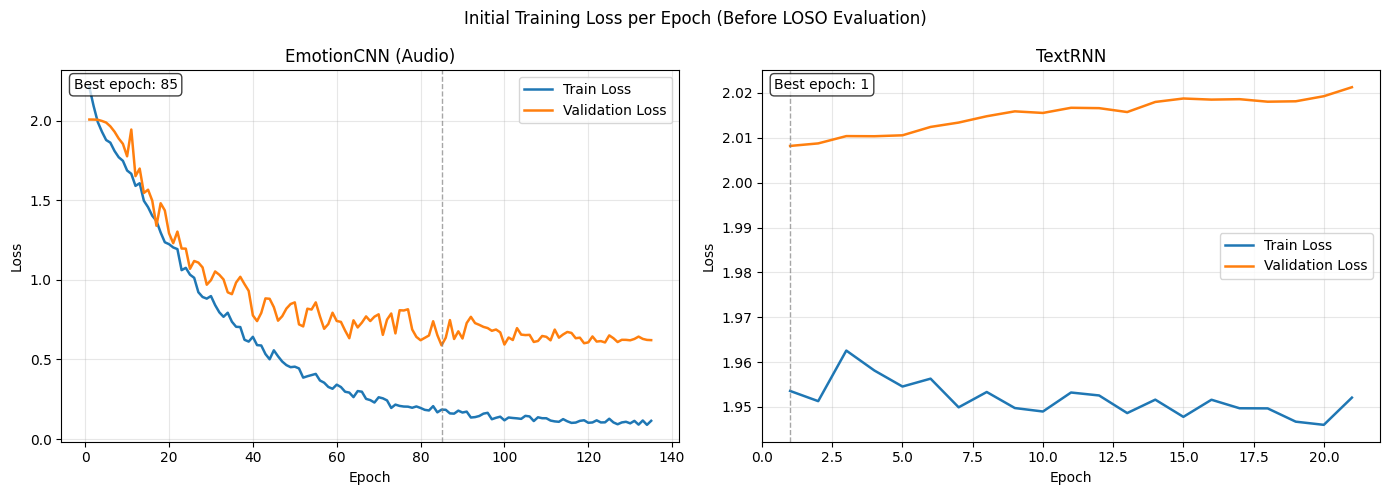
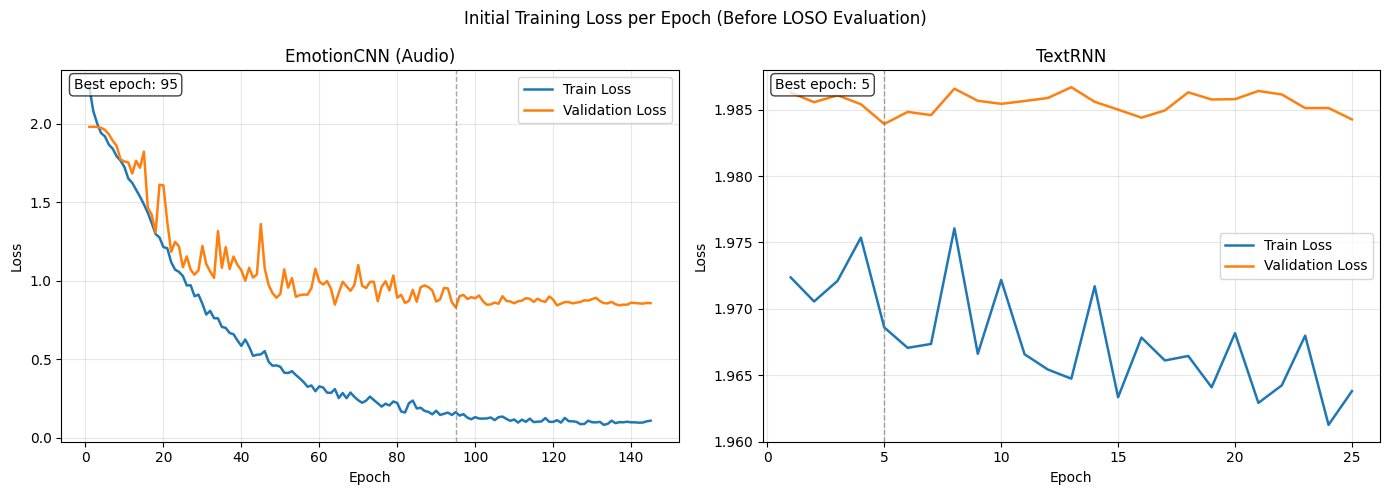
actual final submission?

diff --git a/Emotion Recognition/Technical_Report.md b/Emotion Recognition/Technical_Report.md
@@ -122,7 +122,7 @@ The text branch tests whether lexical information helps. A GRU is simple, sequen
 
 ### Why late fusion?
 
-The notebook’s own observation is correct: RAVDESS uses only two fixed spoken sentences, so transcript content carries almost no emotion information. Late fusion is a safe design because it can learn to trust the audio branch much more than the text branch. That is exactly what happened during training.
+The notebook's own observation is correct: RAVDESS uses only two fixed spoken sentences, so transcript content carries almost no emotion information. Late fusion is a safe design because it can learn to trust the audio branch much more than the text branch. That is exactly what happened during training.
 
 ### Why class-weighted loss?
 
@@ -145,16 +145,16 @@ Random splits can leak speaker identity. Leave-One-Subject-Out evaluation tests 
 ### Audio model
 
 - trained for up to `300` epochs
-- early stopping triggered at epoch `134`
-- best weights restored from epoch `84` with `val_loss = 0.5886`
+- early stopping triggered at epoch `144`
+- best weights restored from epoch `94` with `val_loss = 0.8295`
 
-The audio branch shows clear convergence: training loss steadily falls, validation loss improves substantially, and validation weighted accuracy rises from roughly `0.13` at the start to above `0.80` at its best points.
+The audio branch shows clear convergence: training loss steadily falls, validation loss improves substantially, and validation weighted accuracy rises from roughly `0.13` at the start to the high `0.70s` near the end of training.
 
 ### Text model
 
 - trained for up to `100` epochs
-- early stopping triggered at epoch `20`
-- best weights restored from epoch `0` with `val_loss = 2.0082`
+- early stopping triggered at epoch `24`
+- best weights restored from epoch `4` with `val_loss = 1.9839`
 
 The text branch fails to learn meaningful structure. Its validation loss barely improves and quickly plateaus, which matches the dataset limitation that the transcript content is almost constant across emotions.
 
@@ -177,14 +177,14 @@ The notebook reports two useful evaluation views:
 1. an initial held-out test split for the standalone audio and text models
 2. final LOSO aggregate metrics for all three model types
 
-All F1 values below are the notebook’s **weighted F1-score**.
+All F1 values below are the notebook's **weighted F1-score**.
 
 ### 8.1 Initial Held-Out Test Split
 
 | Model | Accuracy | Weighted Accuracy | F1-score | Weighted Loss |
 |---|---:|---:|---:|---:|
-| EmotionCNN (Audio) | `0.7153` | `0.7132` | `0.7129` | `0.8050` |
-| TextRNN | `0.0868` | `0.1022` | `0.0399` | `1.9868` |
+| EmotionCNN (Audio) | `0.7361` | `0.7266` | `0.7187` | `0.8952` |
+| TextRNN | `0.0590` | `0.0652` | `0.0256` | `1.9843` |
 
 The gap is dramatic. Even on a standard random split, the text model is nearly unusable, while the audio model performs well.
 
@@ -192,17 +192,17 @@ The gap is dramatic. Even on a standard random split, the text model is nearly u
 
 | Model | Accuracy | Weighted Accuracy | F1-score | Precision | Recall |
 |---|---:|---:|---:|---:|---:|
-| EmotionCNN (Audio) | `0.6076` | `0.6061` | `0.6048` | `0.6067` | `0.6076` |
-| TextRNN | `0.0271` | `0.0326` | `0.0201` | `0.0179` | `0.0271` |
-| Late Fusion | `0.6076` | `0.6061` | `0.6048` | `0.6067` | `0.6076` |
+| EmotionCNN (Audio) | `0.5896` | `0.5905` | `0.5833` | `0.5839` | `0.5905` |
+| TextRNN | `0.0271` | `0.0326` | `0.0215` | `0.0184` | `0.0326` |
+| Late Fusion | `0.5896` | `0.5905` | `0.5833` | `0.5839` | `0.5905` |
 
 ### 8.3 LOSO Mean Weighted Accuracy
 
 | Model | Mean LOSO Weighted Accuracy |
 |---|---:|
-| EmotionCNN (Audio) | `0.6061` |
+| EmotionCNN (Audio) | `0.5905` |
 | TextRNN | `0.0326` |
-| Late Fusion | `0.6061` |
+| Late Fusion | `0.5905` |
 
 ## 9. Fusion Analysis
 
@@ -210,12 +210,12 @@ The fusion model was trained on pooled validation logits from all LOSO folds.
 
 Recovered notebook outputs:
 
-- fusion epoch `1`: loss `1.7738`, `alpha = 0.5025`
-- fusion epoch `100`: loss `1.6918`, `alpha = 0.7226`
-- fusion epoch `200`: loss `1.6473`, `alpha = 0.8473`
-- fusion epoch `300`: loss `1.6267`, `alpha = 0.9067`
-- fusion epoch `400`: loss `1.6163`, `alpha = 0.9372`
-- fusion epoch `500`: loss `1.6104`, `alpha = 0.9547`
+- fusion epoch `1`: loss `1.7769`, `alpha = 0.5025`
+- fusion epoch `100`: loss `1.6962`, `alpha = 0.7226`
+- fusion epoch `200`: loss `1.6525`, `alpha = 0.8473`
+- fusion epoch `300`: loss `1.6323`, `alpha = 0.9066`
+- fusion epoch `400`: loss `1.6220`, `alpha = 0.9371`
+- fusion epoch `500`: loss `1.6162`, `alpha = 0.9547`
 
 Final learned fusion weight:
 
@@ -254,14 +254,14 @@ The notebook implements a well-designed multimodal experiment, but the final res
 
 The most important final numbers from the report are the LOSO aggregate results:
 
-- `EmotionCNN`: `Accuracy = 0.6076`, `F1 = 0.6048`
-- `TextRNN`: `Accuracy = 0.0271`, `F1 = 0.0201`
-- `Late Fusion`: `Accuracy = 0.6076`, `F1 = 0.6048`
+- `EmotionCNN`: `Accuracy = 0.5896`, `F1 = 0.5833`
+- `TextRNN`: `Accuracy = 0.0271`, `F1 = 0.0215`
+- `Late Fusion`: `Accuracy = 0.5896`, `F1 = 0.5833`
 
 That makes the central conclusion clear: on RAVDESS speech emotion recognition, acoustic features dominate, while transcript text adds almost no predictive value.
 
 ## 12. Appendix
 
-The notebook also saved LOSO confusion-matrix heatmaps, extracted here for reference:
+The notebook also saved LOSO confusion-matrix heatmaps, extracted here for reference. The image below was refreshed from the current notebook output and exported at a larger resolution for readability:
 
-![LOSO Confusion Heatmaps](./report_assets/loso_confusion_heatmaps.png)
+<img src="./report_assets/loso_confusion_heatmaps.png" alt="LOSO Confusion Heatmaps" width="1400" />
